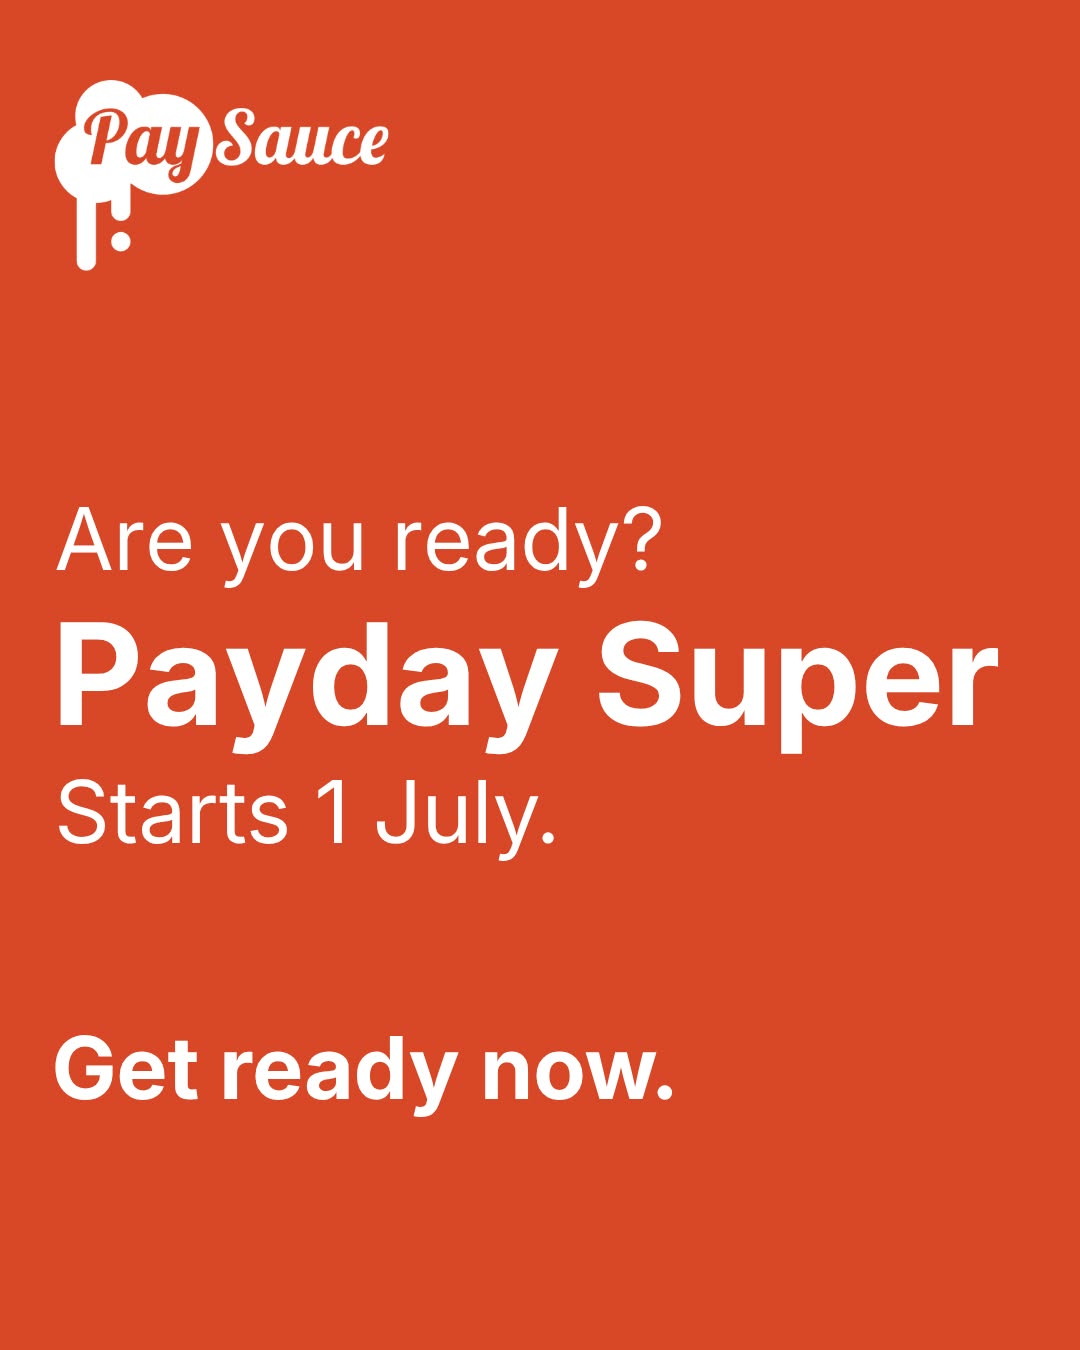
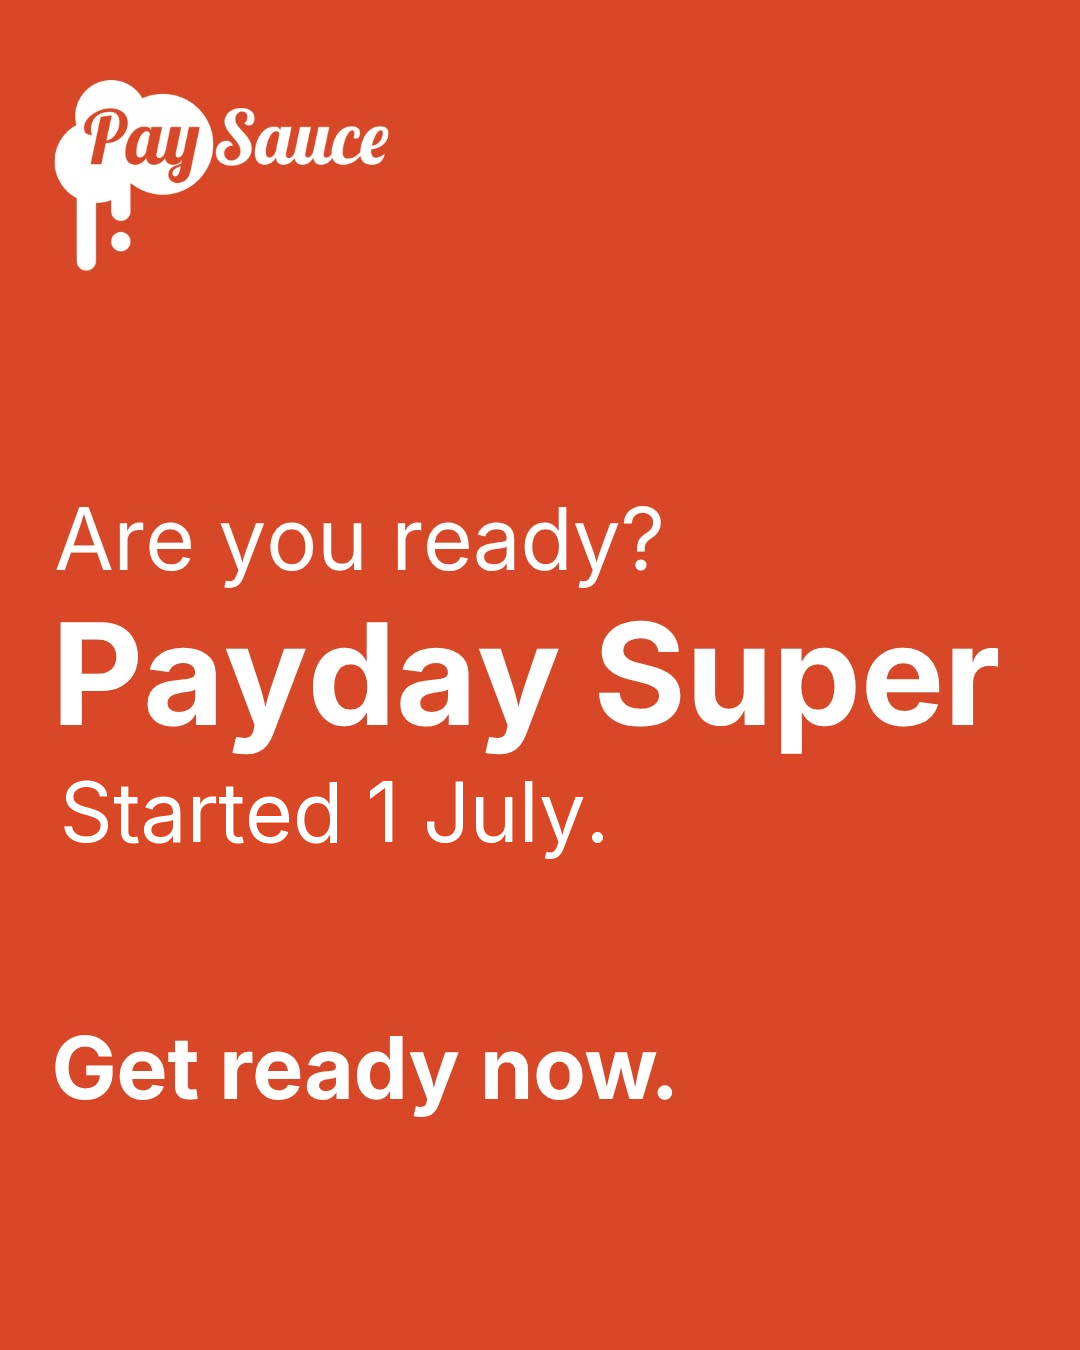
Control: date line to past tense, art and body
Payday super commenced 1 July 2026 (verified: Treasury Laws Amendment
(Payday Superannuation) Act, ATO and Fair Work confirm). Art patched
in-place in Inter; body sentence updated to match.

Changed region(s): [[0.0611, 0.56, 0.55, 0.6533]]

diff --git a/index.html b/index.html
@@ -211,7 +211,7 @@ const ROUND2_FB = Object.assign({}, CONTROL_FB, {
    against it under identical conditions. Art and headline are the original exactly; only a 4x5 was
    ever made, so that is the one size. Body is the original minus two withdrawn lines. */
 const CONTROL_IMAGE1_FB = {
-  primary: "You didn't hire staff so you could spend Sunday night working out penalty rates. \ud83d\ude05\nPayday Super is coming in 2026. Super will need to be paid on EVERY pay run \u2014 not quarterly. If your payroll system isn't ready, the time to switch is NOW. \u26a1\n\nPaySauce does the hard stuff for you. \ud83d\udcaa\n\n\u2705 Award interpretation built in \u2014 Hospitality, Retail, General & IFA\n\u2705 Payday Super ready. Paid every payday. Automatic. Compliant.\n\u2705 Done in 10\u201315 minutes from your phone \ud83d\udcf1\n\u2705 Single Touch Payroll \u2014 automatic, no extra steps\n\u2705 Built for teams of 1 to 25 staff\n\nHere's what payday looks like with PaySauce \ud83d\udc47\n\nStaff clock in and out on the app.\nHours captured.\nAward rates applied.\nSuper calculated.\n\nYou review, approve, pay. Done before your coffee goes cold. \u2615\n\nNo spreadsheets. No Sunday stress. No expensive compliance mistakes.\n\n\ud83d\udc47 Get started today.",
+  primary: "You didn't hire staff so you could spend Sunday night working out penalty rates. \ud83d\ude05\nPayday Super is here. Super must now be paid on EVERY pay run, not quarterly. If your payroll system isn't ready, the time to switch is NOW. \u26a1\n\nPaySauce does the hard stuff for you. \ud83d\udcaa\n\n\u2705 Award interpretation built in \u2014 Hospitality, Retail, General & IFA\n\u2705 Payday Super ready. Paid every payday. Automatic. Compliant.\n\u2705 Done in 10\u201315 minutes from your phone \ud83d\udcf1\n\u2705 Single Touch Payroll \u2014 automatic, no extra steps\n\u2705 Built for teams of 1 to 25 staff\n\nHere's what payday looks like with PaySauce \ud83d\udc47\n\nStaff clock in and out on the app.\nHours captured.\nAward rates applied.\nSuper calculated.\n\nYou review, approve, pay. Done before your coffee goes cold. \u2615\n\nNo spreadsheets. No Sunday stress. No expensive compliance mistakes.\n\n\ud83d\udc47 Get started today.",
   headline: "Payroll Sorted in 15 Mins!",
   desc: "Get started.",
   cta: "Learn more", url: "www.paysauce.com/au"
